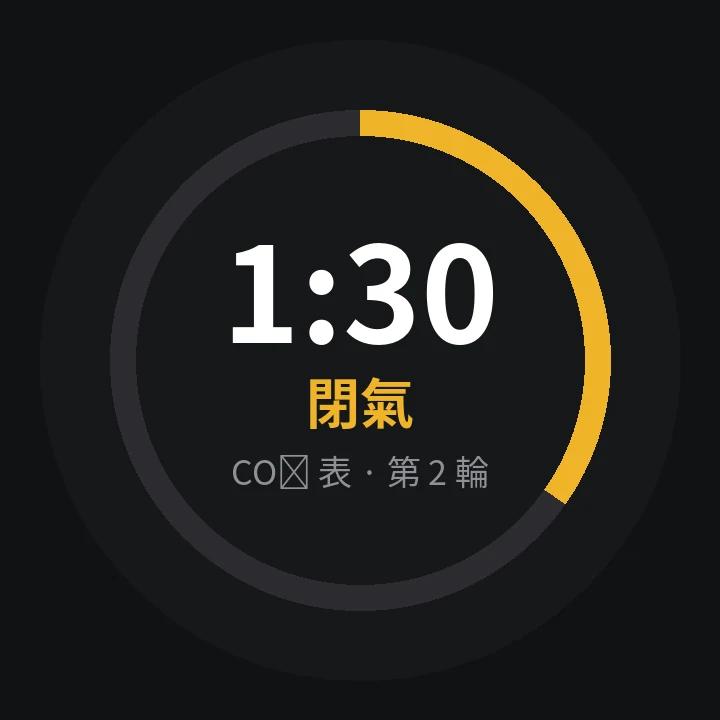
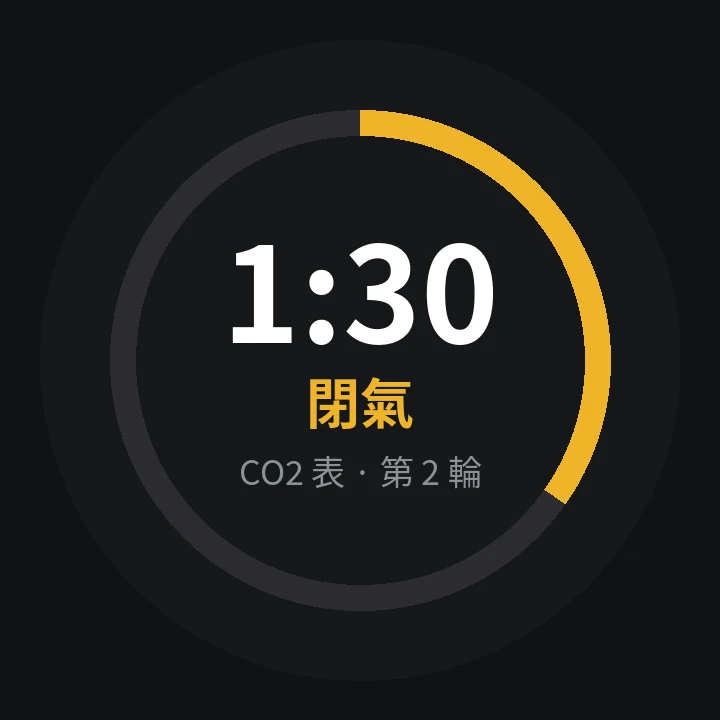
content: fix the Interval name, widen the Sushi Otoko pitch, drop YouBike (#54)
- "Interval" was the repo slug, not the app name -- the card now says
  "Interval Timer" (data, getDescKey and the URL slug for the assets stay).
- Sushi Otoko is a per-plate calculator, not a sushi-only one: the copy
  now names the three presets and the custom mode that takes any
  plate-priced restaurant.
- YouBike is retired like the rest of the student-era work: entry, asset
  imports, AVIF map entries, locale string and images all go.
- The Apnea placeholder dial said "CO₂ 表", and the CJK font has no U+2082
  glyph, so the subscript rendered as tofu. Plain "CO2" in the mock; the
  page copy keeps the real subscript, which the browser font handles.
- About quote rewritten: the "web development is a canvas" line no longer
  matches what the work is. Both locales now say the work is building,
  researching and shipping with AI, not just pages.

Changed region(s): [[0.3056, 0.6111, 0.4889, 0.7028], [0.5194, 0.6111, 0.7028, 0.7028]]

diff --git a/src/data/data.ts b/src/data/data.ts
@@ -3,12 +3,11 @@ import {
   dodScreenshots,
   intervalScreenshots,
   sushiOtokoScreenshots,
-  youbikeScreenshots,
 } from "../assets";
 
 export const showcaseData = [
   {
-    name: "Interval",
+    name: "Interval Timer",
     desc: "A watch-only interval timer for the Amazfit Balance 2. No phone app, no account: set work, rest, rounds and sets on the watch, hit start, and it counts down with vibration cues while you train.",
     libraries: "Zepp OS 5, JavaScript, Zeus CLI, Amazfit Balance 2",
     screenshots: intervalScreenshots,
@@ -25,7 +24,7 @@ export const showcaseData = [
   },
   {
     name: "Sushi Otoko",
-    desc: "A plate-counting bill calculator for conveyor-belt sushi. Pick your chain, tap a plate colour each time one comes round, and you know what the meal costs -- service charge included -- before you walk up to the register. Installs to the home screen and keeps working offline.",
+    desc: "A per-plate bill calculator -- built for conveyor-belt sushi, but the custom mode takes any place that charges by the plate. The Sushiro, Kura and Sushi Express presets ship with their tier prices; in custom mode you name the tiers, set the prices and pick the colours yourself. Tap a tier each time a plate lands and the running total, service charge included once you switch it on, is there before you reach the register. Installs to the home screen and works offline.",
     libraries: "JavaScript, PWA, Service Worker, Bun, GitHub Actions",
     screenshots: sushiOtokoScreenshots,
     deployedUrl: "https://isaacrundev.github.io/sushi-otoko/",
@@ -41,13 +40,5 @@ export const showcaseData = [
     githubUrl: "https://github.com/isaacrundev/dod-nextjs",
     demoUsername: "aloha@qmail.com",
     demoPswd: "111111",
-  },
-  {
-    name: "YouBike Live Data Tracker",
-    desc: "A web-based service enables users to check live data of the bicycle-sharing system (YouBike) in Taipei city",
-    libraries: "Vite, ReactJS, TailwindCSS, Shadcn/ui, React Query, Axios",
-    screenshots: youbikeScreenshots,
-    deployedUrl: "https://youbike-tan.vercel.app/",
-    githubUrl: "https://github.com/isaacrundev/Youbike",
   },
 ];

diff --git a/src/assets/index.ts b/src/assets/index.ts
@@ -19,9 +19,6 @@ import contactLinkedIn from "./contact/iconmonstr-linkedin-4-96.png?no-inline";
 
 import me from "./me.webp";
 
-import youbikeDesktop1 from "../assets/showcases/Youbike/youbike-desktop1.webp";
-import youbikeMobile1 from "../assets/showcases/Youbike/youbike-mobile1.webp";
-
 // AVIF, but only where encoding from the original beat WebP at matched quality.
 // The rest are flat app screenshots that WebP already handles well -- for those,
 // AVIF at the same PSNR comes out the same size or larger, so a second copy would
@@ -30,7 +27,6 @@ import youbikeMobile1 from "../assets/showcases/Youbike/youbike-mobile1.webp";
 // under 4KB as base64.
 // Keyed by the WebP URL, so the screenshot lists below stay plain strings.
 import meAvif from "./me.avif?no-inline";
-import youbikeMobile1Avif from "./showcases/Youbike/youbike-mobile1.avif?no-inline";
 import dod1Avif from "./showcases/dod/dod1.avif?no-inline";
 import dod2Avif from "./showcases/dod/dod2.avif?no-inline";
 import dod3Avif from "./showcases/dod/dod3.avif?no-inline";
@@ -38,14 +34,11 @@ import dod4Avif from "./showcases/dod/dod4.avif?no-inline";
 
 export const avifVersions: Record<string, string> = {
   [me]: meAvif,
-  [youbikeMobile1]: youbikeMobile1Avif,
   [dod1]: dod1Avif,
   [dod2]: dod2Avif,
   [dod3]: dod3Avif,
   [dod4]: dod4Avif,
 };
-
-export const youbikeScreenshots = [youbikeMobile1, youbikeDesktop1];
 
 export const dodScreenshots = [dod1, dod2, dod3, dod4];
 

diff --git a/src/layouts/Showcases.tsx b/src/layouts/Showcases.tsx
@@ -6,8 +6,7 @@ import { useReveal } from "../hooks/useReveal.ts";
 const getDescKey = (name: string) => {
   switch(name) {
     case "Diet or Die": return "dodDesc";
-    case "YouBike Live Data Tracker": return "youbikeDesc";
-    case "Interval": return "intervalDesc";
+    case "Interval Timer": return "intervalDesc";
     case "Apnea": return "apneaDesc";
     case "Sushi Otoko": return "sushiOtokoDesc";
     default: return "";
